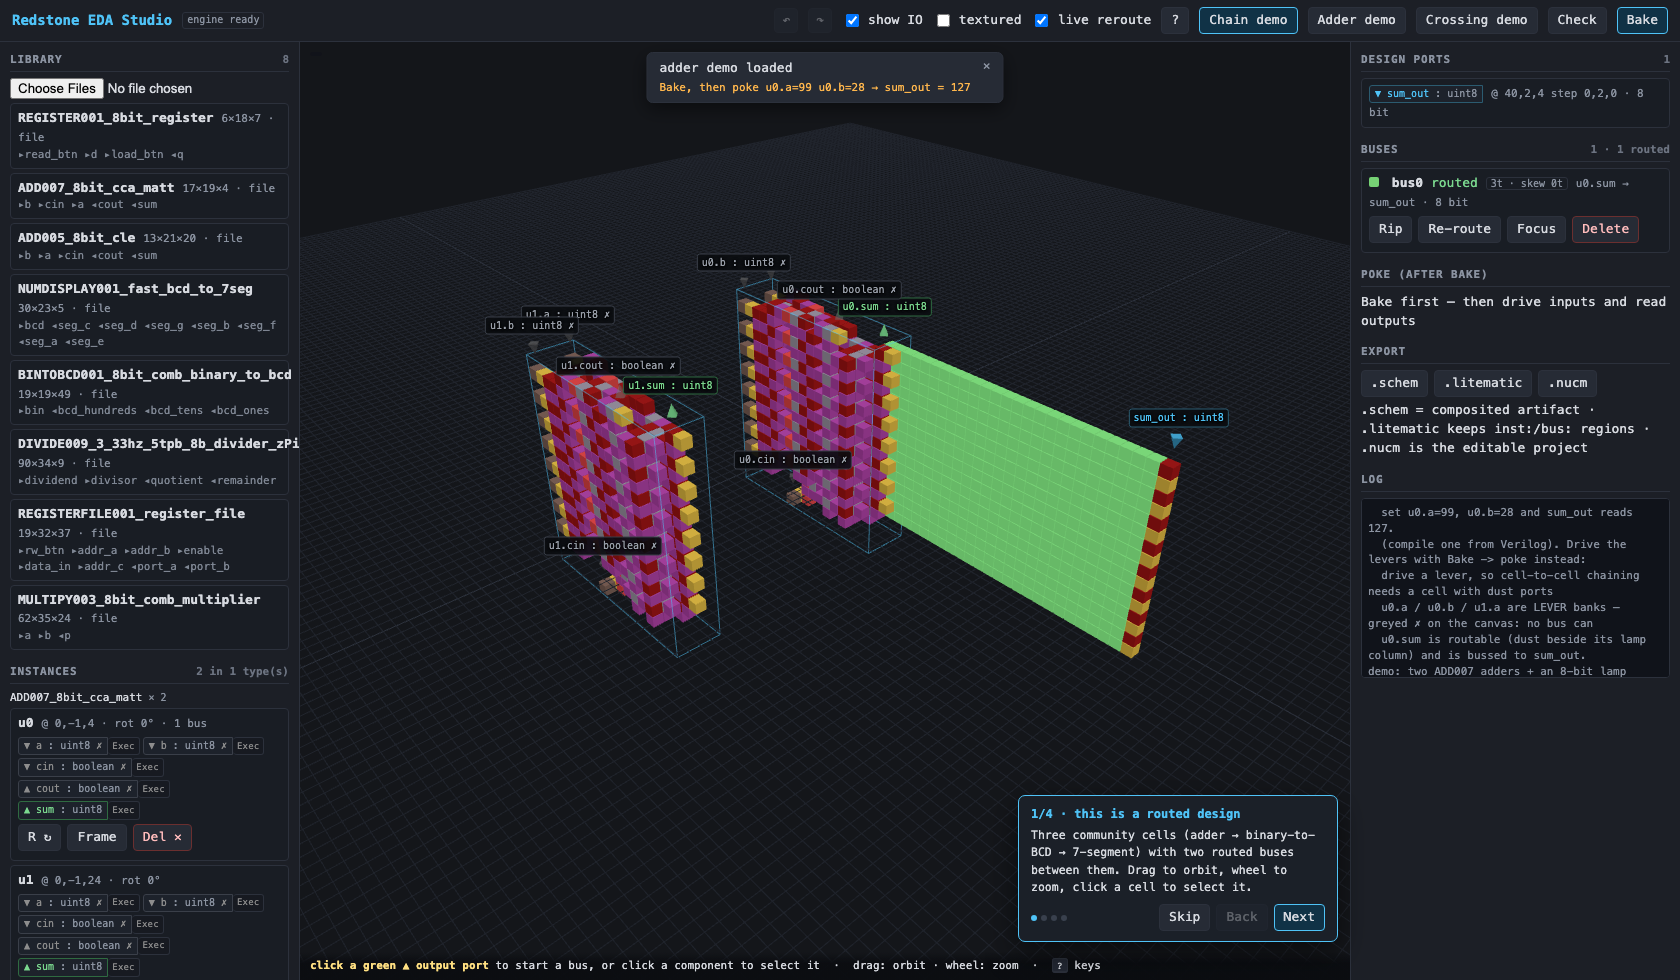
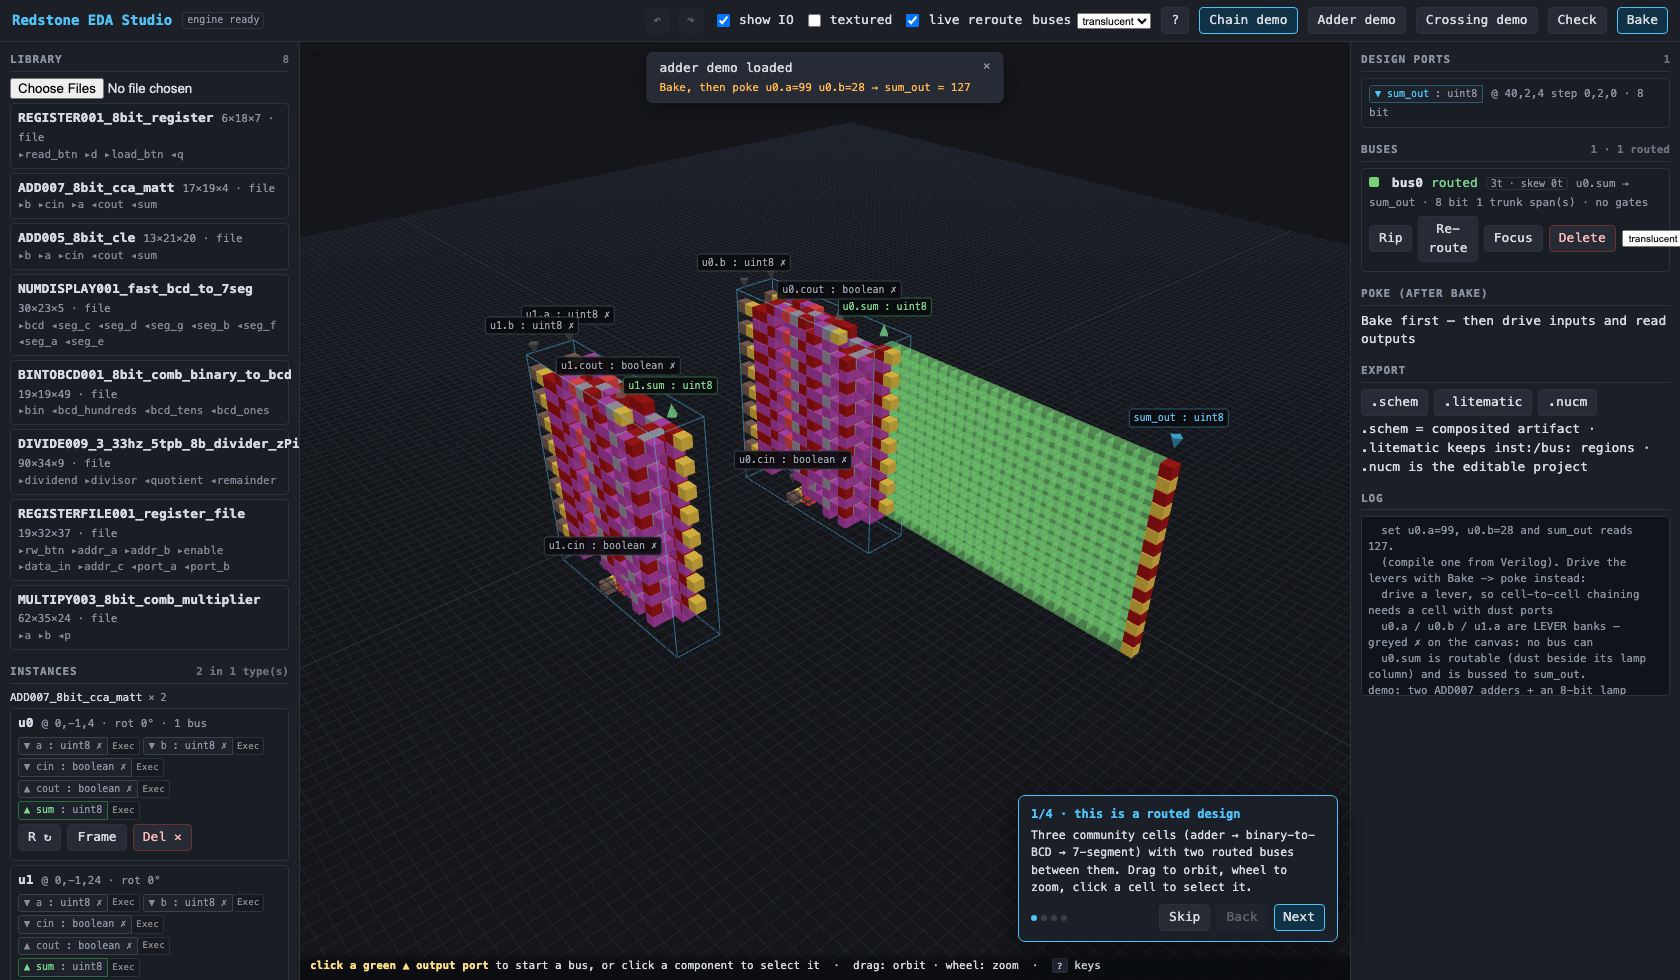
docs(eda-studio): document the render contract, clipboard, bus drawing and gates
README gains four sections and a re-screenshot:

  * why the renderer does not trust the changed set — the three mechanisms
    (geometry revisions, dirty-set-consumed-last, commit sequence numbers) each
    named against the failure mode it exists for, and the consistency check that
    proves them;
  * what a copy IS here (a reference to a cell plus a transform, which is why a
    paste costs no new mesh) and what travels with it (port modes, an internal
    bus's INTENT) versus what does not (blocks, half a bus);
  * gates are checkpoints, not endpoints: removing one straightens the route,
    removing a port changes the netlist — plus the two engine limits the UI works
    around (the 2y-pitch level snap, `add_gate` refusing instance ports);
  * bus drawing presets, with the solid/outline pair of screenshots as the
    argument: the same textured scene, redstone hidden then visible.

`Design::add_gate` refusing any bus between placed cells is recorded under known
rough edges with its workaround. Check count 71 -> 101; the new screenshots are
copy-paste, the instance context menu, a bus with two checkpoints, and the
solid-vs-outline pair.

diff --git a/apps/eda-studio/README.md b/apps/eda-studio/README.md
@@ -74,6 +74,96 @@ full legend, in the app.
 | `⌘/Ctrl-Z` / `⇧⌘/Ctrl-Z` | undo / redo |
 | `?` | keyboard + colour legend |
 | `Esc` | cancel placing/connecting/grabbing, close an overlay, or deselect |
+| `⇧`+click | add/remove an instance from an area selection (the last click is primary) |
+| `⌘/Ctrl-C` `V` `X` `D` | copy / paste at the cursor / cut / duplicate with an offset |
+| right-click | context menu on whatever is under the cursor |
+
+Four kinds of thing are selectable, and each answers `Del` differently, because
+they are different things: an **instance** (deleting it takes its buses, so it
+asks), a **bus** (deleting it drops the declaration; `Rip` keeps it), a **gate**
+(deleting it only lets the route straighten), and a **port** (not deletable at
+all — it belongs to a cell).
+
+### Copy / paste
+
+An instance is a *reference to a library cell plus a transform* — that is why
+ten placements cost one mesh — so a paste places **another reference**, never a
+copy of the blocks. `⌘V` costs zero new cell meshes, which the verify asserts.
+
+What travels with a copy: the transform, and the per-port Exec/Bus promotions
+(those are per-instance patches, so they genuinely are part of the instance).
+What does not: geometry, and buses with an endpoint outside the copied set —
+half a bus is nothing.
+
+For an **area** copy (`⇧`-click a group), a bus whose driver *and* every sink are
+inside the set has its **intent** copied — driver, sinks, gates — and the paste
+re-declares it for the new group, with every endpoint remapped to the copies. A
+bus is an intent the router realizes; blocks are its output, not its identity.
+If the new copy cannot route, it is left FAILED with the router's own reason,
+like every other failed route here.
+
+A paste is **one undo step** (`Studio.transaction`) covering the placements, the
+promotions and the recreated buses — and one refresh, so the renderer never
+meshes the half-promoted intermediate states nobody sees. Names are derived from
+the source (`u1` → `u2`, `add0` → `add1`, otherwise `_copy`), and the group is
+nudged clear of existing keepouts rather than being refused.
+
+### Gates are checkpoints, not endpoints
+
+A gate says *the route must pass through here*; an endpoint says *this bus
+drives that port*. Conflating them is the mistake that makes routing feel
+arbitrary, so nothing in the UI does: removing a gate leaves the netlist alone
+and lets the router take a **straighter** path (the verify asserts the cell
+count does not grow), while removing an endpoint changes what the design means.
+
+Full lifecycle on canvas: right-click a bus → **Add gate here** at the clicked
+point; drag the ◆ handle to steer (only the two adjacent spans re-route); select
+it and `Del`, or use its ✕ in the Buses panel, to remove it. Each is its own
+undo step. A selected bus lists its checkpoints in order with their coordinates,
+and prints `N trunk span(s)` so the model is on screen rather than implied.
+
+Two engine notes the UI works around rather than hides:
+
+- a click lands on whatever *bit* of the bus's 2y-pitch stack is under the
+  cursor, so the gate's **level snaps to the bus's own** (a gate off the trunk
+  level is a level change, which this router refuses — and says so);
+- `Design::add_gate` resolves a bus's endpoints through the *declared* port
+  table, so it refuses any bus running between placed cells. Those buses fall
+  back to re-declaring the bus with the new gate list, which routes the whole run
+  instead of two spans — same result, more work. `remove_gate` is used when the
+  loaded engine has it and falls back the same way.
+
+### Bus drawing: a bus IS redstone
+
+A bus fragment is not an annotation near redstone, it is dust, repeaters and the
+blocks carrying them. Painting it as an opaque coloured slab therefore *deletes*
+information — and what the colour is for is identity, which survives a tint or an
+outline just as well. Three presets (header dial, remembered in `localStorage`,
+overridable per bus in the Buses panel):
+
+| preset | what it draws | for |
+| --- | --- | --- |
+| `solid` | the fragment in the bus colour | tracing a route at maximum contrast |
+| `translucent` | tinted, the blocks reading through | the default |
+| `outline` | silhouette only, in the bus colour | seeing the actual redstone |
+
+Hovering or selecting a bus raises its emphasis temporarily, so `outline` stays
+traceable: the fragment under the cursor comes forward without the other seven.
+Compare `docs/15-textured-bus-solid.png` with
+`docs/16-textured-bus-outline-shows-redstone.png`.
+
+### Right-click
+
+Context-sensitive on what is under the cursor: an **instance** offers rotate,
+duplicate, copy/cut, a per-port Exec/Bus submenu, promote-all-inputs, frame, rip
+its buses, delete; a **port** offers start-a-bus and its mode switch; a **bus**
+offers add-gate-here, remove-a-gate submenu, re-route, rip, its drawing style,
+focus-the-blockage when FAILED, delete; **empty space** offers paste, add a
+component from the library, frame all, and the view toggles. `Esc` closes it, and
+right-clicking mid-gesture cancels the gesture instead of opening a menu.
+
+The highest-value entry is **Add gate here**, because it is the only affordance
+that can exist: gate steering needs a world position, and no panel has one.
 
 ### Undo/redo
 
@@ -84,9 +174,11 @@ port-mode toggles are all reversible, and a **drag is one undo step** — the
 sixty committed live-reroute frames coalesce into "where the gesture started"
 → "where it ended". Undoing the delete of a bus-carrying instance re-places
 the body, re-applies its promotions and **re-routes its buses**; the verify
-script asserts exactly that. `declarePort` and `addGate` have no engine inverse
-and are deliberately *not* journalled rather than faked. Loading a demo clears
-the history — a starting point is not an edit.
+script asserts exactly that. Gate add/move/remove and pastes are journalled too,
+a paste as **one** step via `Studio.transaction` (which also defers the change
+notification to the commit, so a dozen edits cost one refresh). `declarePort` has
+no engine inverse and is deliberately *not* journalled rather than faked. Loading
+a demo clears the history — a starting point is not an edit.
 
 ### Colour semantics, documented in the UI
 
@@ -329,6 +421,41 @@ The loose layer is read from flatten's own non-`inst:`/`bus:` regions rather
 than by subtracting instance blocks from a full-document dump — that dump was
 36 ms at 2.5k blocks and grew with every placed cell.
 
+### ...but the renderer does not TRUST the changed set
+
+"Sometimes when I move a component the bus doesn't update right" is what an
+incremental renderer costs you if the changed set is the only thing deciding
+what to redraw. A changed set is a performance hint; it can be incomplete, it
+can be spent by a failed frame, and it can be stale by a frame. So three
+mechanisms sit under it, each aimed at one of those:
+
+1. **Geometry revisions.** Every layer (each bus, the loose base, each cell
+   variant) carries a `rev` that moves only when its blocks actually change
+   content — a signature comparison, not a re-read. The renderer keys its mesh
+   cache on `rev`, so a layer whose geometry moved can never keep a stale mesh
+   even if nobody named it. Revisions come from a process-wide counter, because
+   a per-layer one hands a NEW document's first `loose` layer revision 1 — the
+   number a renderer that outlives the document swap is already holding. (That
+   is not hypothetical: the consistency check below caught exactly that, and the
+   symptom was the design's loose hardware silently not drawn.)
+2. **The dirty set is consumed last.** `scene()` clears the flags only after
+   every read has succeeded, and a caller that fails to apply a scene calls
+   `Studio.invalidateAll()`. A throw mid-scene used to mean permanent staleness:
+   the work was never done and nothing remembered it was owed.
+3. **Commit sequence numbers.** A live re-route commit is deferred to the next
+   animation frame, so a drop could land the final position and then have the
+   queued frame land the position from *before* it — re-routing every affected
+   bus for a component that had already moved. Every intent takes a number when
+   it is formed and a commit is refused if a higher-numbered one has landed.
+   Coalescing may drop work; it can never apply older work over newer.
+
+And one assertion, which is the actual regression guard:
+`window.__eda.consistency()` reads back **what is in the scene graph** — the
+vertex buffers and the instance matrices, not the arrays the renderer was handed
+— and compares it cell-for-cell with a fresh, cache-bypassing read of the
+engine. `npm run verify` runs it after a 12-frame drag, a rotate, a rip, a
+re-route, a promotion, a delete, an undo, every paste and every gate edit.
+
 ### Numbers
 
 `npm run profile` writes `docs/profile-<tag>.json`; `docs/profile-before.json`
@@ -395,7 +522,7 @@ npm run profile                 # -> docs/profile-current.json
 EDA_PROFILE_TAG=before npm run profile   # tag a baseline to diff against
 ```
 
-**71 checks**, all through the same code paths the mouse and keyboard drive
+**101 checks**, all through the same code paths the mouse and keyboard drive
 (`window.__eda`), so green means the UI works and not just the engine: library
 auto-load, instance ports (routable + refused-with-reason), selection and the
 hint bar, `R` rotate, `Del` delete ripping its bus, click-to-connect, a bus
@@ -421,6 +548,27 @@ reverse), plus the **UX contract**:
 | `Esc` cancels placing **and** grabbing (put back where it started), camera freed | one key, no dead ends |
 | clicking empty ground deselects | the escape hatch people try before they find `Esc` |
 
+...the **editing model** added in this pass:
+
+| assertion | why it is the right thing to assert |
+| --- | --- |
+| every rendered layer matches the engine's blocks after a drag, rotate, rip, re-route, promotion, delete and undo | the regression guard for "sometimes the bus doesn't update": it reads the scene graph's own buffers, not the arrays the renderer was handed |
+| a live frame queued before a drop is refused when it fires, and the instance stays where the drop put it | the drag race, asserted by the count of commits actually dropped |
+| ⌘C/⌘V places one new instance of the same cell, uniquely named, for **0** new cell meshes | a paste is a reference, which is the whole model |
+| ...with its Exec/Bus port modes carried over | the per-instance patches are part of the instance |
+| ...as **one** undo step, and consistent both after the paste and after the undo | one action, one ⌘Z |
+| an area copy takes the bus with both ends inside, and the paste RECREATES it with endpoints remapped to the copies | a bus is an intent, not blocks |
+| ...and one ⌘Z removes the pasted instances *and* the recreated bus | the transaction, end to end |
+| ⌘D lands the copy clear of the original; ⌘X then ⌘V round-trips | the two shortcuts people actually use to array a cell |
+| clicking a bus selects it, the hint bar names Del/R/F, its outliner row highlights, `Del` deletes it behind the same confirm | a bus is a first-class object, not an outliner row |
+| bus drawing has three presets, one bus can override the global, and the choice survives a reload | "the bus lines hide the redstone" is a preference, so it is stored |
+| the right-click menu is context-sensitive per instance / port / bus / ground, `Esc` closes it, its Delete uses the same confirm | a menu that acts on something the canvas does not show as selected is how you delete the wrong cell |
+| "Add gate here" carries the clicked (x, z) and snaps only the LEVEL to the bus's | the entry only means anything with a position |
+| a gate lands, the bus stays routed, and the geometry passes THROUGH that cell | otherwise it is a decoration |
+| dragging the handle moves it for **0** cell re-meshes | the 2-adjacent-span fast path |
+| removing it leaves the endpoints untouched and the route no longer | gate = route, endpoint = netlist, asserted rather than described |
+| add / drag / remove are each their own undo entry | each is a thing a user did |
+
 ...and the **performance contract**, re-run unchanged:
 
 | assertion | why it is the right thing to assert |
@@ -430,7 +578,7 @@ reverse), plus the **UX contract**:
 | K placements of one cell ⇒ 1 mesh build, 1 instanced group | the instancing claim itself |
 | ...read out of wasm once, from the CELL | no per-instance region dumps |
 | port-mode toggle ⇒ exactly 1 cell variant re-meshed | the only edit that changes a placed cell's blocks |
-| one bus re-route ⇒ exactly 1 bus re-meshed, 0 cells | bus dirtiness is per bus, from the engine's own report |
+| one bus re-route ⇒ exactly 1 bus layer RE-READ, 0 cells, and re-meshed only if its blocks moved | re-reading is the contract; re-meshing is a decision, and an identical route already has a correct mesh |
 | live re-route commits ≤ 1 engine move per animation frame | there is no fixed throttle left to drift out of date |
 | 10 placements / 3 cells ⇒ the draw-call count | the number a reader can check |
 
@@ -438,7 +586,9 @@ The counters behind these are `viewer.meshBuilds` (`cells`, `instancedGroups`,
 `matrixWrites`, `buses`, `loose`, `texture`) and `studio.sceneReads`
 (`flatten`, `cellDump`, `instDump`, `busDump`, `looseDump`); the UX ones are
 `__eda.labels()`, `__eda.history()`, `__eda.coach()`, `__eda.toasts()`,
-`__eda.pendingConfirm()`, `__eda.lastFailure()` and `__eda.focus()`. All are on
+`__eda.pendingConfirm()`, `__eda.lastFailure()`, `__eda.focus()`,
+`__eda.consistency()`, `__eda.staleCommits()`, `__eda.clipboard()`,
+`__eda.gates()` and `__eda.contextMenu()`. All are on
 `window.__eda`. Results land in `docs/verify-out.json`; screenshots in `docs/`.
 
 The textured check needs a resource pack at the repo root (`pack.zip`, **not**
@@ -460,8 +610,13 @@ Regenerated by `npm run verify` into `docs/`:
 | `08-bus-failed-reason.png` | a FAILED bus as a **sentence** — headline, fix, `→ (15, 6, 25)`, engine words behind a disclosure |
 | `09-baked-typed-poke.png` | the poke panel after `Bake` |
 | `10-auto-promoted-cell-to-cell.png` | auto-promotion on connect, cell to cell |
-| `11-textured-resource-pack.png` | the textured view (needs `pack.zip`) |
-| `12-instanced-10-placements.png` | 10 placements over 3 cells, 7 draw calls |
+| `11-copy-paste-group.png` | ⌘C/⌘V — a second placement of the same cell, framed with its original |
+| `12-context-menu-instance.png` | the right-click menu on an instance (rotate, duplicate, port-mode submenu, rip its buses) |
+| `13-bus-gates-and-context-menu.png` | a bus with two checkpoints, its menu open, its gate list in the panel |
+| `14-textured-resource-pack.png` | the textured view (needs `pack.zip`) |
+| `15-textured-bus-solid.png` | the same scene with `solid` buses — the coloured slab hides the redstone it is made of |
+| `16-textured-bus-outline-shows-redstone.png` | ...and with `outline` buses: dust, repeaters and blocks visible, identity kept |
+| `17-instanced-10-placements.png` | 10 placements over 3 cells, 7 draw calls |
 
 ## Known rough edges
 
@@ -484,6 +639,14 @@ Regenerated by `npm run verify` into `docs/`:
 - The engine runs on the main thread. That no longer costs the drag gesture
   anything (see *Renderer → Numbers*), but a live-re-route drag and the
   200 ms textured re-mesh are still main-thread stalls a Web Worker would hide.
+- **`Design::add_gate` cannot resolve instance ports.** It looks its bus's
+  driver and first sink up in the *declared* port table, so any bus between two
+  placed cells — which is most of them — is refused with
+  `NucleationError.InvalidArgument`, even though `move_gate` handles a gate on
+  the same bus fine. The app falls back to re-declaring the bus with the new gate
+  list (whole run re-routed instead of two spans), so gates work everywhere; the
+  fast path returns as soon as the engine resolves endpoints there. Same for
+  `remove_gate`, used when present.
 - Buses realize a single-level 2y-pitch stack: both endpoints must share a y.
   Moving an instance off that level reports FAILED with that explanation
   (which is what the verify script's failure case uses).
